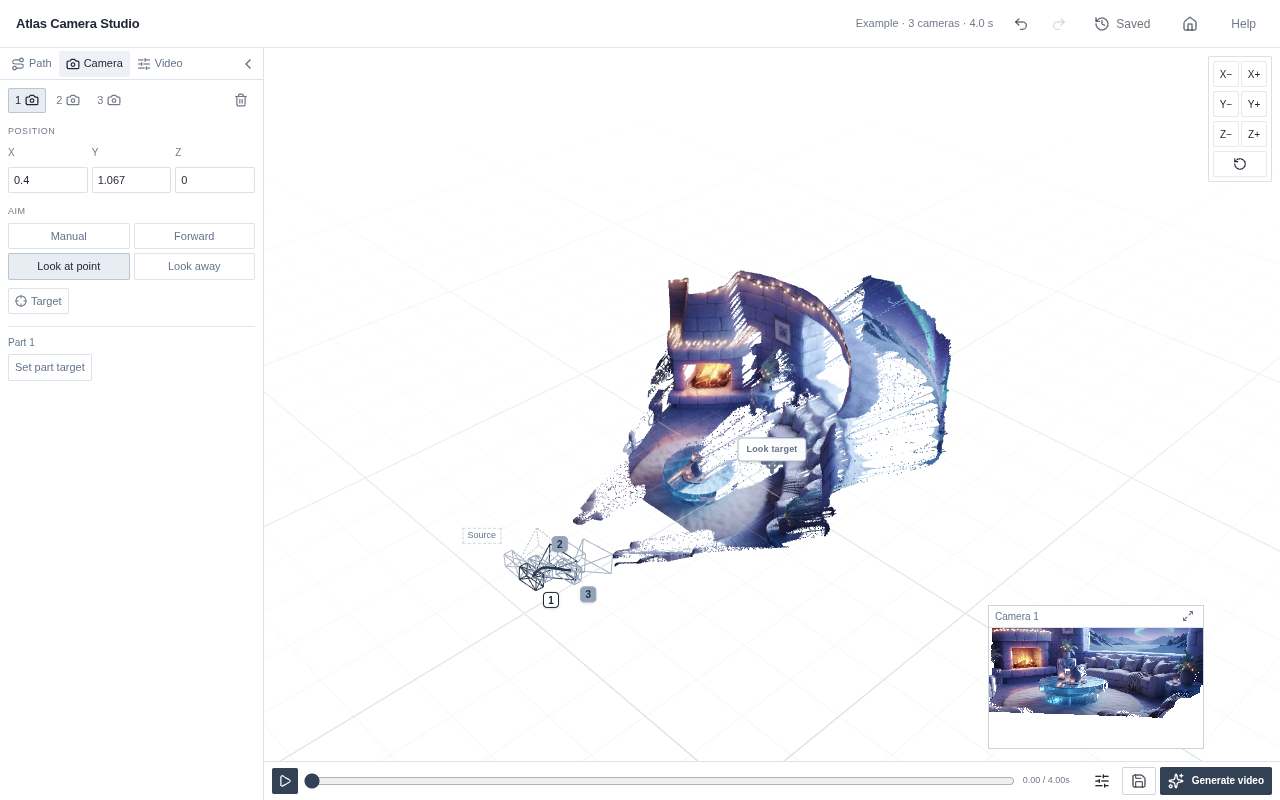
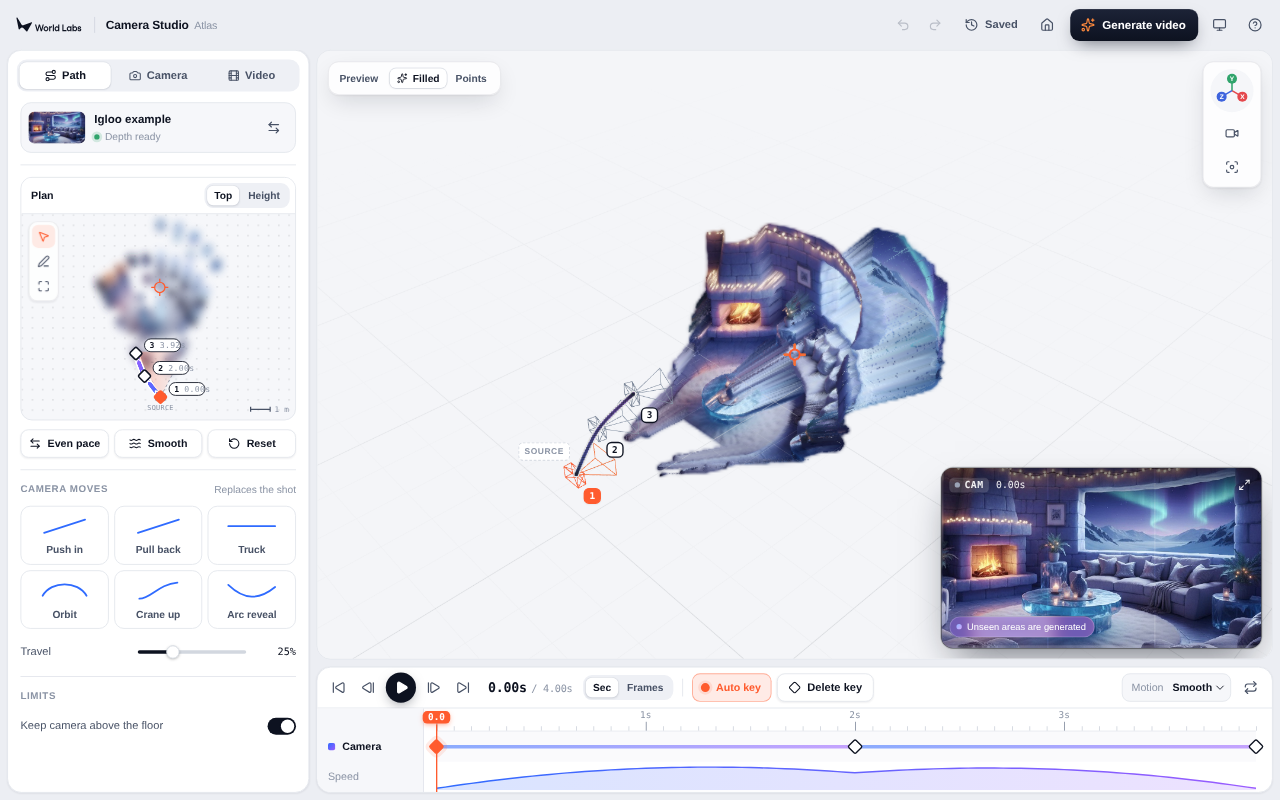
Soften off-axis preview sooner and document the filled preview

diff --git a/src/trajectory/preview/materials.ts b/src/trajectory/preview/materials.ts
@@ -8,7 +8,7 @@ import * as THREE from "three";
 // colour for the offscreen cloud layer.
 
 /** Degrees of view-ray deviation where softening begins and is complete. */
-export const DEVIATION_START_DEGREES = 6;
+export const DEVIATION_START_DEGREES = 3;
 export const DEVIATION_END_DEGREES = 65;
 
 const deviationChunk = /* glsl */ `
@@ -22,7 +22,7 @@ float viewDeviation(vec3 sourceRay, vec3 viewRay) {
 // Points: on-axis they are today's square sprites. Deviated sprites grow to
 // cover the gaps their neighbours leave, turn into gaussian discs, and fade so
 // the fill pass blends them into one soft surface.
-const POINT_GROWTH = 1.4;
+const POINT_GROWTH = 2.2;
 const POINT_MIN_ALPHA = 0.5;
 
 export function createPointMaterial(): THREE.ShaderMaterial {

diff --git a/README.md b/README.md
@@ -74,7 +74,7 @@ The editor follows your device's light or dark setting; the header button switch
 
 Navigate the overview with the mouse (drag to orbit; right-drag or Shift-drag to pan) or **W A S D** and **Q**/**E**. **R** frames the scene and path. These controls move your view of the scene, not the shot camera.
 
-The preview connects adjacent depth samples into textured surfaces to fill the gaps between points when viewing at an angle. It skips unsupported depth jumps and reconnects grazing surfaces when local inverse-depth samples establish a plane. Isolated missing samples can be repaired from measured planar neighbors; larger gaps remain open. Geometry hidden by the source image remains unobserved.
+The preview connects adjacent depth samples into textured surfaces wherever the depth supports them. In **Filled** mode (the default) it then fills the remaining gaps in screen space from blurred, lower-resolution copies of the cloud, so small gaps close and large ones fade out instead of showing holes. As the view moves away from the source photo's angle, points grow into soft discs and the texture fades. Gaps across depth jumps show as a faint, slowly shimmering glow in the colours on either side: the generated video fills these areas, and the preview does not pretend to know their detail. **Points** shows the raw measured samples.
 
 ### Get an API key
 
